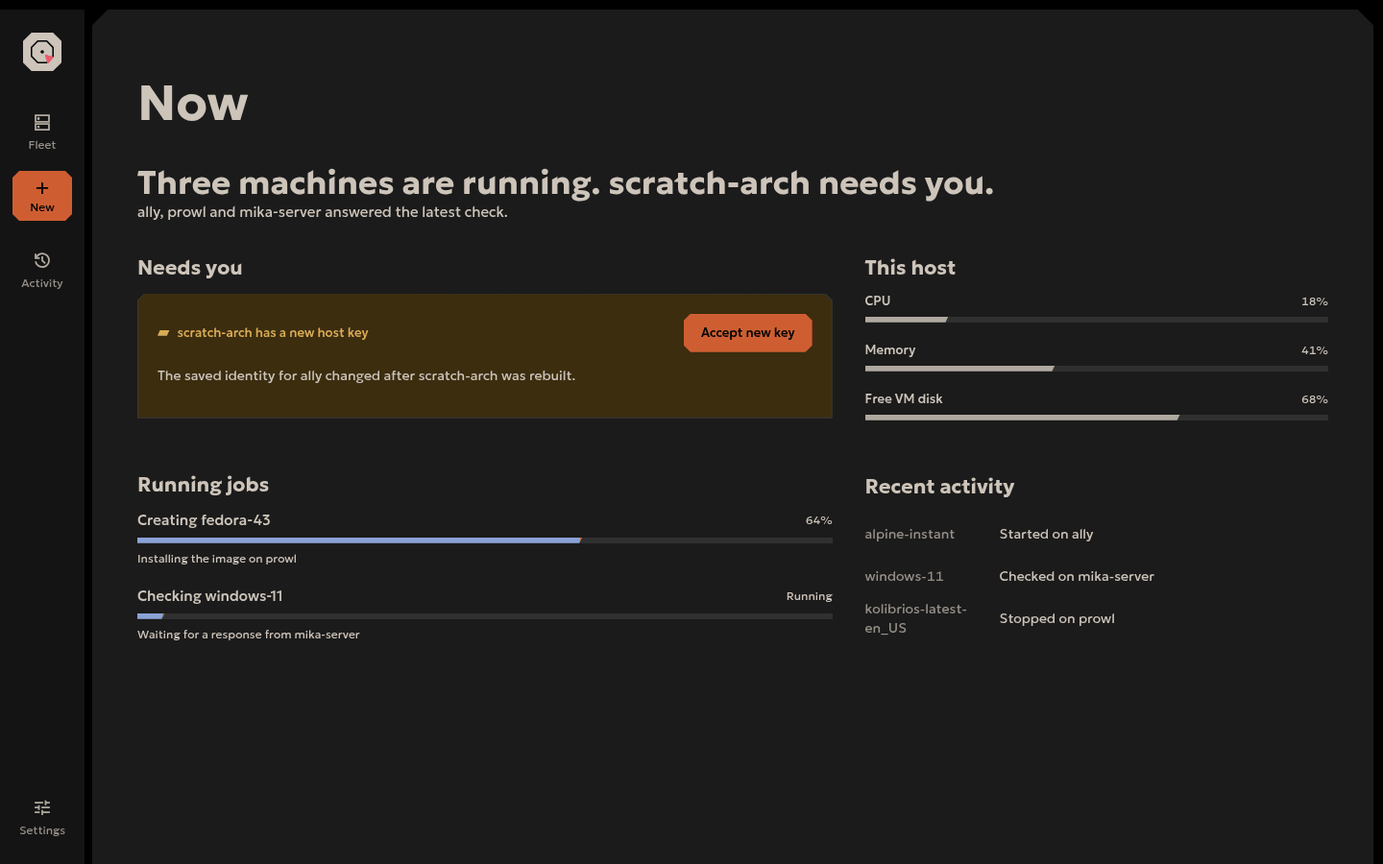
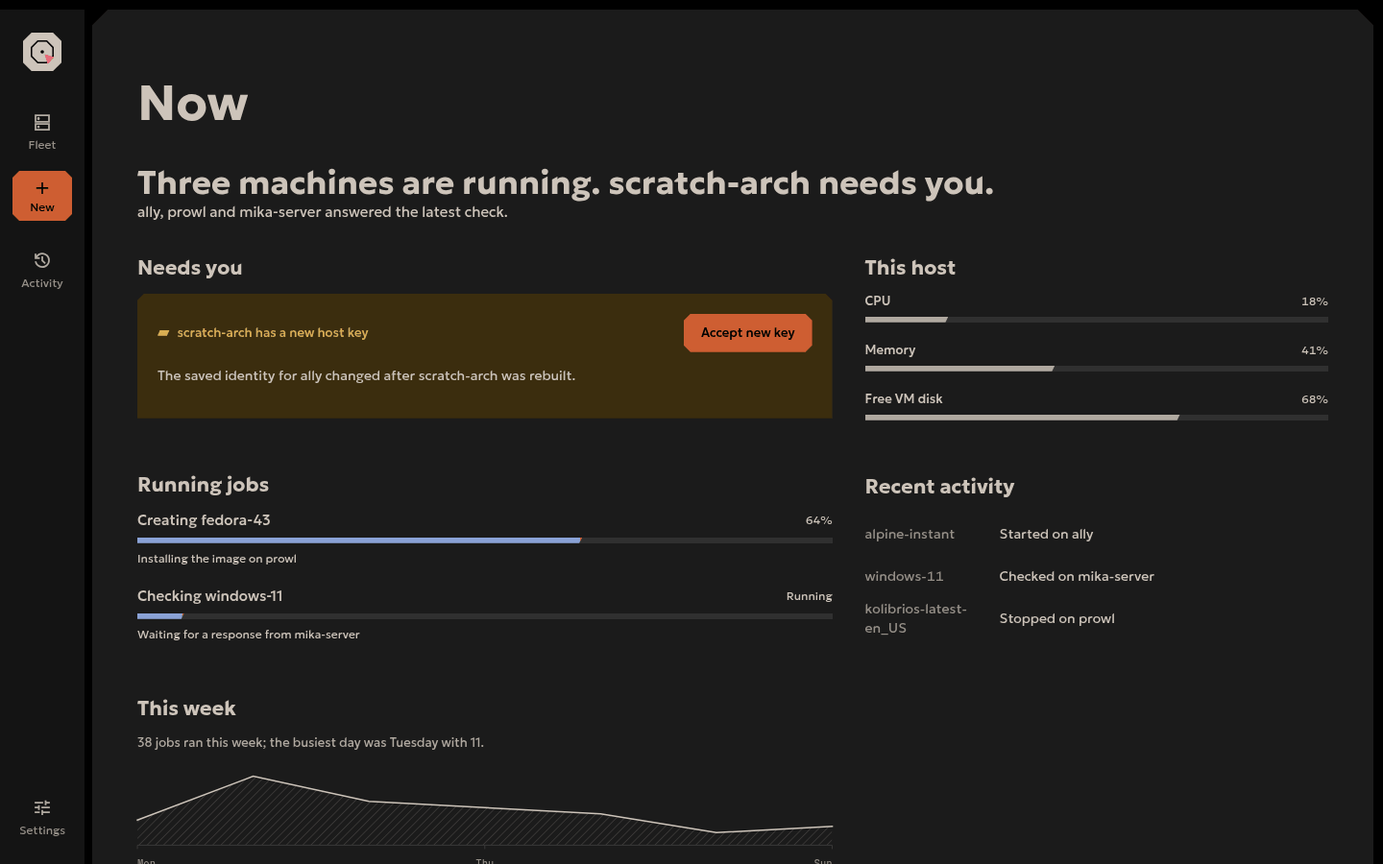
[docs] lithic: chart every overview, align docs with the code
An overview opens with its sentence, then an engraved chart of how it
moved; the Now sheet shows one. Slab, Facts, filter and SectionIndex
prose now match the libraries, and the web slab hairline is light-only.

diff --git a/docs/lithic/examples/sheets/now.html b/docs/lithic/examples/sheets/now.html
@@ -16,6 +16,7 @@
     .attention-line, .job-head, .meter-head { display: flex; justify-content: space-between; align-items: center; gap: var(--lithic-space-s3); }
     .job, .meter { display: grid; gap: var(--lithic-space-s2); }
     .job + .job, .meter + .meter { margin-top: var(--lithic-space-s4); }
+    .chart-proof { margin: 0 0 var(--lithic-space-s3); color: var(--lithic-fg2); }
   </style>
 </head>
 <body>
@@ -33,6 +34,7 @@
             <div class="board-column">
               <section class="l-section"><h2 class="l-section__title">Needs you</h2><div class="l-slab l-cut" data-tone="attention"><div class="attention-line"><span class="l-claim" data-tone="attention"><span class="l-flake" data-tone="attention" aria-hidden="true"></span>scratch-arch has a new host key</span><button class="l-plaque l-gold" type="button">Accept new key</button></div><p class="l-type-body">The saved identity for ally changed after scratch-arch was rebuilt.</p></div></section>
               <section class="l-section"><h2 class="l-section__title">Running jobs</h2><div><div class="job"><div class="job-head"><strong class="l-type-row">Creating fedora-43</strong><span class="l-type-caption l-numeric">64%</span></div><div class="l-blade l-blade-progress" role="progressbar" aria-label="Creating fedora-43" aria-valuemin="0" aria-valuemax="100" aria-valuenow="64" aria-busy="true" style="--l-fraction:.64"></div><span class="l-type-caption">Installing the image on prowl</span></div><div class="job"><div class="job-head"><strong class="l-type-row">Checking windows-11</strong><span class="l-type-caption l-numeric">Running</span></div><div class="l-blade l-blade-progress" role="progressbar" aria-label="Checking windows-11" aria-busy="true" data-indeterminate="true"></div><span class="l-type-caption">Waiting for a response from mika-server</span></div></div></section>
+              <section class="l-section"><h2 class="l-section__title">This week</h2><p class="chart-proof l-type-detail">38 jobs ran this week; the busiest day was Tuesday with 11.</p><figure class="l-engraved-chart" aria-label="Jobs run each day this week"><svg viewBox="0 0 720 112" role="img"><defs><pattern id="lithic-chart-hatch" width="6" height="6" patternUnits="userSpaceOnUse" patternTransform="rotate(45)"><path class="l-engraved-chart-hatch" d="M0 0 V6"></path></pattern><clipPath id="week-field"><path d="M0 58 L120 12.5 L240 38.5 L360 45 L480 51.5 L600 71 L720 64.5 L720 84 L0 84 Z"></path></clipPath></defs><rect class="l-engraved-chart-field" x="0" y="0" width="720" height="84" clip-path="url(#week-field)"></rect><line class="l-engraved-chart-baseline" x1="0" y1="84" x2="720" y2="84"></line><polyline class="l-engraved-chart-line" points="0,58 120,12.5 240,38.5 360,45 480,51.5 600,71 720,64.5"></polyline><line class="l-engraved-chart-tick" x1="0" y1="84" x2="0" y2="88"></line><line class="l-engraved-chart-tick" x1="360" y1="84" x2="360" y2="88"></line><line class="l-engraved-chart-tick" x1="720" y1="84" x2="720" y2="88"></line><text class="l-engraved-chart-label" x="0" y="106">Mon</text><text class="l-engraved-chart-label" x="360" y="106" text-anchor="middle">Thu</text><text class="l-engraved-chart-label" x="720" y="106" text-anchor="end">Sun</text></svg></figure></section>
             </div>
             <div class="board-column">
               <section class="l-section"><h2 class="l-section__title">This host</h2><div><div class="meter"><div class="meter-head"><span class="l-type-label">CPU</span><span class="l-type-caption l-numeric">18%</span></div><div class="l-blade l-blade-meter" role="meter" aria-label="Host CPU use" aria-valuemin="0" aria-valuemax="100" aria-valuenow="18" style="--l-fraction:.18"></div></div><div class="meter"><div class="meter-head"><span class="l-type-label">Memory</span><span class="l-type-caption l-numeric">41%</span></div><div class="l-blade l-blade-meter" role="meter" aria-label="Host memory use" aria-valuemin="0" aria-valuemax="100" aria-valuenow="41" style="--l-fraction:.41"></div></div><div class="meter"><div class="meter-head"><span class="l-type-label">Free VM disk</span><span class="l-type-caption l-numeric">68%</span></div><div class="l-blade l-blade-meter" role="meter" aria-label="Free virtual machine disk" aria-valuemin="0" aria-valuemax="100" aria-valuenow="68" style="--l-fraction:.68"></div></div></div></section>

diff --git a/docs/lithic/library/web/lists.css b/docs/lithic/library/web/lists.css
@@ -488,10 +488,14 @@
 .l-slab,
 .l-aside {
   --l-fill: var(--lithic-slab);
-  --l-stroke: var(--lithic-vein);
-  --l-stroke-width: var(--lithic-size-hairline);
   --l-cut: var(--lithic-cut-mid);
   padding: var(--lithic-size-slab-inset);
+}
+
+/* a lighter slab alone does not separate from a light pane, so light mode adds the hairline */
+:root[data-l-mode="light"] :is(.l-slab, .l-aside) {
+  --l-stroke: var(--lithic-vein);
+  --l-stroke-width: var(--lithic-size-hairline);
 }
 
 .l-slab[data-tone]:not([data-tone="idle"]) {

diff --git a/docs/lithic/library/web/overlays.css b/docs/lithic/library/web/overlays.css
@@ -717,6 +717,7 @@
 }
 
 .l-engraved-chart {
+  margin: 0;
   color: var(--lithic-fg);
 }
 

diff --git a/docs/lithic/library/go/kit/filters.go b/docs/lithic/library/go/kit/filters.go
@@ -22,9 +22,9 @@ type filterChip struct {
 	focus anim.Tween
 }
 
-// Filters is a row of mutually exclusive filter chips. Chips at rest are
-// tonal plates; the selection glides between them as a sel fill with the place
-// blade along its bottom.
+// Filters is a row of mutually exclusive filter chips. A chip at rest has no
+// fill and shows the field under the pointer; the selection glides between
+// them as a sel fill.
 type Filters struct {
 	Labels   []string
 	Counts   []int

diff --git a/docs/lithic/library/go/kit/sectionindex.go b/docs/lithic/library/go/kit/sectionindex.go
@@ -14,8 +14,9 @@ import (
 	"github.com/ryoku-dev/ryoku/docs/lithic/library/go/tokens"
 )
 
-// SectionIndex tracks settings sections as a side list of bladed rows at
-// expanded width and as a picker at the top of the column when narrower.
+// SectionIndex tracks settings sections as a side list whose current row is a
+// sel fill at expanded width, and as a picker at the top of the column when
+// narrower.
 type SectionIndex struct {
 	Preview State
 

diff --git a/docs/lithic/library/web/README.md b/docs/lithic/library/web/README.md
@@ -208,7 +208,7 @@ Field wrappers are part of the component contract. Wrap every `l-text-field` in 
 | Toggle | A button with `l-toggle` and `role="switch"`. | Reads and writes `aria-checked`. Native `disabled` and `aria-disabled` block toggling. | Bubbled `input` and `change` on the toggle. | `hover`, `pressed`, and `focus`. |
 | Slider | `l-slider-field` contains `input.l-slider[type="range"]`, `l-slider-rail`, `l-slider-fill`, and `l-slider-handle`. The rail is a `field` track. An optional `[data-l-slider-value]` output shows the reading. | Reads native `min`, `max`, `value`, `step`, and `disabled`. If `step` is absent, the library supplies the token keyboard step. `data-l-value-text` overrides visible and accessible value text. The library writes `aria-valuetext` and `--l-value`. | Native range `input` and `change` events. | `hover`, `pressed`, and `focus` on `l-slider`. |
 | Stepper | `l-stepper` contains controls marked `data-l-stepper="decrement|increment"` (normally quiet small icon plaques), an `l-stepper-reading l-cut` field box, an `l-stepper-value` in the label type with tabular figures, and optional `l-stepper-unit`. The value element can use `role="spinbutton"` and `tabindex="0"` for arrow-key input. Add `data-l-editable` to take a typed value: the library makes the value an `input` (an `input.l-stepper-value` may be written directly) sized for the widest bound. Return, Enter or leaving the field commits it clamped to the bounds and snapped to the step from `data-min`; Escape drops an unsaved edit and otherwise passes on, so a dialog closes; Up and Down still step while the side arrows, Home and End move the caret. | Reads `data-value`, `data-min`, `data-max`, `data-step`, and `data-l-editable`. Writes `data-value`, `aria-valuenow`, `aria-valuemin`, and `aria-valuemax` on the value, `--l-stepper-chars` on a typed field, plus `disabled` and `aria-disabled` on the buttons. | Bubbled `input` and `change` on `l-stepper`, once per committed change; the typed field's own events stay inside. | The plaque buttons support plaque states; `focus` on `l-stepper-value`, which a typed field also shows while it holds the caret. |
-| Filters | `l-filters` contains an `l-filter-slab l-place-chip` and buttons with `l-filter`. Counts use `l-filter-count`. Chips rest on the tonal recipe; the gliding slab draws the selection. | Reads and writes `aria-pressed` and roving `tabindex`. `data-value` supplies the selected value, otherwise trimmed button text is used. The group receives `data-value`. | Bubbled `input` and `change` on `l-filters`. | `hover` and `focus` on each `l-filter`. |
+| Filters | `l-filters` contains an `l-filter-slab l-place-chip` and buttons with `l-filter`. Counts use `l-filter-count`, in the caption type with tabular figures. A resting chip has no fill; hover shows the `field` fill, and the gliding slab draws the selection. | Reads and writes `aria-pressed` and roving `tabindex`. `data-value` supplies the selected value, otherwise trimmed button text is used. The group receives `data-value`. | Bubbled `input` and `change` on `l-filters`. | `hover` and `focus` on each `l-filter`. |
 | Segmented | `l-segmented l-cut` contains two to five `button.l-segment` options of equal width. The library creates the gliding `l-segmented-thumb l-cut l-place-chip`. | Defaults to `role="radiogroup"` with `role="radio"` options. Reads and writes `aria-checked` and roving `tabindex`; `data-value` supplies the value, otherwise trimmed text is used. The group receives `data-value`, `--l-segment-count`, `--l-segment-index`, and managed `data-l-selection-ready`, which turns on the glide after the first change. Arrow keys move, Home and End jump. `disabled` or `aria-disabled` on an option, or `aria-disabled` on the group, disables it. | Bubbled `input` and `change` on `l-segmented`. | `hover` on each `l-segment`; `focus` on `l-segmented`. |
 | Tabs | `l-tabs[role="tablist"]` contains `l-tabs-blade` and `button.l-tab[role="tab"]` on a `vein` baseline. Each tab names a panel with `aria-controls`. | Reads and writes `aria-selected`, roving `tabindex`, and panel `hidden`. `data-value` supplies the group value, otherwise trimmed tab text is used. The tab list receives `data-value`. | Bubbled `input` and `change` on the tab list. | `hover` and `focus` on each `l-tab`. |
 | Disclosure | `l-disclosure` contains a control marked `data-l-disclosure-trigger` and `l-disclosure-content`. | Reads and writes `aria-expanded` on the trigger and writes `aria-hidden` plus `inert` on the content. The library manages `data-l-open` and `--l-disclosure-height`. | Bubbled `change` on `l-disclosure`. | The trigger supports its own component states. |
@@ -265,7 +265,7 @@ Segmented:
 | Pane | `l-pane l-cut` is a list plane. Add `l-work-pane` for the work plane. | No component attribute is read. | None. | None. |
 | MineralField | `l-mineral-field` can be combined with a container such as Header. | Reads `data-tone="idle|alive|becoming|attention|paused|failed"`. Tone changes animate the field unless reduced motion is active. | None. `setTone(element, tone)` updates the attribute. | None. |
 | Header | `l-header` contains `l-header__identity`, `l-header__mark`, `l-header__name`, optional `l-header__proof`, `l-header__note`, `l-marks`, `l-header__acts`, and `l-header__below`. | No Header-specific attribute is read. A combined MineralField reads `data-tone`. | None. | Child controls support their own states. |
-| Slab | `l-slab l-cut` is a content plane that lifts: the `slab` fill with a `vein` hairline inside the cut. Successive `l-slab-row` children are divided by a `vein` line across the inner width with `s3` above and below. Aside uses the same plane. | No component attribute is read. | None. | None. |
+| Slab | `l-slab l-cut` is a content plane that lifts: the `slab` fill inside the cut, with a `vein` hairline only in light mode, where the lighter slab alone would not separate. `data-tone` dyes it with its state's mineral field for the one hero plane of a view. Successive `l-slab-row` children are set apart by `s4` of space, not a rule. Aside uses the same plane. | Reads `data-tone` through the shared tone rules, and the root's `data-l-mode` for the hairline. | None. | None. |
 | Section | `l-section` contains `l-section__title`. Add `l-major` to increase the gap between consecutive major sections. | No component attribute is read. | None. | None. |
 | Facts | A `dl.l-facts` contains `l-facts__row` wrappers around `dt` and `dd`. Add `l-literal` to values that need the mono type. Labels keep the 140 column, values start `s4` after it, either side wraps, and a row grows past 44 to fit its taller side. | No component attribute is read. | None. | None. |
 | Aside | `aside.l-aside.l-cut` contains `l-aside__title` and optional `l-aside__preview l-cut`. | No component attribute is read. | None. | None. |

diff --git a/docs/lithic/layout.md b/docs/lithic/layout.md
@@ -69,8 +69,8 @@ away.
 Top to bottom, with the list inset 10 from the pane sides:
 
 1. The page title in `section` ("Fleet") over one sentence of state in `body`
-   ("Three running. mika-server needs you.") with the attention name in
-   amber.
+   ("Three running. mika-server needs you.") in one ink; the state shows on
+   the row.
 2. The search field (280 wide at rest, growing to the pane) with its
    shortcut hint ("/"); Ctrl K opens the command palette instead.
 3. The filters with live counts: All, Machines, Servers, Consoles.
@@ -88,8 +88,9 @@ marks, act row) uses 36 side insets, then tabs in a 44 strip inset 34 at the
 sides, then tab content inset 34 on `stone2`. Tabs are at most five per
 resource kind.
 
-With nothing selected, the work pane shows the **Now board** as sections.
-Its content is centred up to 1240 wide:
+With nothing selected, the work pane shows the **Now board** as sections open
+on the pane under their `section` titles; only the thing that needs you may
+stand on a toned slab. Its content is centred up to 1240 wide:
 
 1. The fleet sentence in `sentence`, followed by one proof line.
 2. Pinned resource tiles, each with state and one action. A tile is at least
@@ -100,6 +101,13 @@ Its content is centred up to 1240 wide:
 4. Needs you and Running now use rows with one action. This computer shows
    CPU, memory and free VM-disk space as quiet `fg2` BladeMeters. A meter
    turns amber at 90 percent.
+5. The board shows how the fleet moved over time as a chart section, open on
+   the pane like the rest: a `section` title, one proof line in `detail`
+   `fg2` that says in words what the line shows ("38 jobs ran this week; the
+   busiest day was Tuesday with 11"), then an EngravedChart. It stands beside
+   or above the lists of what needs you, never in place of the sentence. When
+   the data is too short for a line, the chart's own `fg3` sentence stands
+   there instead.
 
 Drafts occupy the work pane under a header. The form column is at most 600
 wide. From 820 available width, an Aside sits 34 to its right, 300 to 400
@@ -128,12 +136,12 @@ Activity and Settings omit the list pane and take the remaining width.
 | compact | full width | the same Picker at the top of the column | same |
 
 Each section is a `section` title, 13 gap, a slab, 21 below. The slab is the
-`slab` role with a 1 dp `vein` hairline, cut 7 with a 21 inset: in dark mode
-it is lighter than the work pane, in light mode its hairline sets it off.
-Setting rows inside a slab are a title in `row` with a detail in `detail`
-`fg2` 2 below, and the control (toggle, picker, segmented, stepper, slider)
-right-aligned and no wider than 320; rows are 13 apart, with a `vein` line
-between them.
+`slab` role, cut 7 with a 21 inset: in dark mode it is lighter than the work
+pane, in light mode a step lighter with a 1 dp `vein` hairline that sets it
+off. Setting rows inside a slab are a title in `row` with a detail in
+`detail` `fg2` 2 below, and the control (toggle, picker, segmented, stepper,
+slider) right-aligned and no wider than 320; rows are 21 apart, separated by
+space, not rules.
 
 The index follows the reading position: a section becomes current when less
 than a third of it is still visible above the next; at the very end the last
@@ -337,8 +345,8 @@ which leaves only its gaps. A block of code keeps its slab.
 cut 7 carries it: the command in `mono`, why in `detail`, its
 claim (how far it reaches) and one line plaque that runs it. The slab stands
 where the text shows the command, in place of the block of code, and never
-again under it. Several commands share one slab under a `title`, a `vein`
-hairline between them.
+again under it. Several commands share one slab under a `title`, set apart by
+space.
 
 **Running it stays in the conversation.** The plaque runs the command in
 place: the command stands where a question would, in `mono` on the question's
@@ -347,8 +355,8 @@ that shows nothing until the command ends reads as a button that did nothing.
 A second, small icon plaque opens a terminal for the reader who wants one,
 and it is the only action when the command needs a keyboard. A running line
 carries the Working flakes and, from three seconds on, the time it has taken
-in `monoSm`; while it runs its unfolded output shows its end, not its start,
-since that is where the news is.
+in `caption` with tabular figures; while it runs its unfolded output shows
+its end, not its start, since that is where the news is.
 
 **Text can be marked.** Every paragraph, question and block of code can be
 selected with the pointer and copied, with `sel` at 60% under the marked
@@ -429,16 +437,18 @@ while the column is scrolled beneath it.
 
 **The work beside it.** When a conversation changes files, the side panel
 shows the changes without leaving the conversation: a file per row with its
-status letter, path and counts in `mono`, each unfolding to its diff. The
-panel never takes gold; committing belongs to the full review.
+status letter and path in `mono` and its counts in `caption`, each unfolding
+to its diff. The panel never takes gold; committing belongs to the full
+review.
 
 A destination with nothing open shows its Now board in the content pane: the
-`sentence`, one `proof` line, then what needs the reader first. A board with
-nothing to report does not stand empty. It says where work can start, on
-slabs under a `title`: the places to work in with the one action
-that picks each, or, when the thing every action needs is missing, the way
-to get it. A list in the sidebar that has no rows yet says in one `caption`
-line what will stand there.
+`sentence`, one `proof` line, then what needs the reader first, with a chart
+section of how the destination's work moved beside or above it, as on the
+[Now board](#the-work-pane). A board with nothing to report does not stand
+empty. It says where work can start, on slabs under a `title`: the places to
+work in with the one action that picks each, or, when the thing every action
+needs is missing, the way to get it. A list in the sidebar that has no rows
+yet says in one `caption` line what will stand there.
 
 Search has one entry point, the top bar field. It finds conversations,
 projects and commands, and Ctrl K focuses it. Its results open under the

diff --git a/docs/lithic/library/go/README.md b/docs/lithic/library/go/README.md
@@ -250,7 +250,7 @@ func layoutHost(gtx layout.Context, th *theme.Theme) layout.Dimensions {
 | `MineralField` | An animated tone-derived plane with no caller fields. Call `Layout(gtx, th, tone, body)`. |
 | `Header` | Owns the mineral field behind a selected resource. Pass `HeaderContent` to `Layout(gtx, th, content)`. |
 | `HeaderContent` | Set `Tone`, `Mark`, `Name`, `Progress`, `Proof []Span`, `Note`, `Marks []Mark`, `Actions []*Plaque`, and `Below`. |
-| `Slab` | `Slab(gtx, ink, cut, body)` is the general painted container. `SlabContent(gtx, th, body)` supplies the standard stone1 plane and inset. |
+| `Slab` | `Slab(gtx, ink, cut, body)` is the general painted container. `SlabContent(gtx, th, body)` supplies the standard slab: the `slab` fill, a `vein` hairline in light mode, the mid cut and the inset. `TonedSlabContent(gtx, th, tone, body)` dyes it with the tone's mineral field for the one hero plane of a view. `SlabRows(gtx, th, rows...)` sets rows apart by space inside a standard slab, and `SlabSurface(gtx, th, bounds, cut, fill)` paints the plane alone. |
 | `Section` | `Section(th, title, body)` returns a titled widget with canonical gaps. |
 | `Fact`, `Facts` | A `Fact` has `Label`, `Value`, and `Mono`. `Facts(th, []Fact)` returns a flat label and value table: labels keep the 140 column, values start `s4` after it, either side wraps, and a row grows past 44 to fit its taller side. |
 | `Aside` | `Aside(gtx, th, title, rows...)` lays out a live draft summary. Build rows with `AsideFact`, `AsideNote`, and `AsidePreview`. |
@@ -322,7 +322,7 @@ argument.
 | `NewPlaque` | The rail's sole gold action. Set embedded `Click` and `Preview`, then call `Layout(gtx, th, compact, open)`. Consume activation through the embedded `Clicked(gtx)`. |
 | `RailDestination` | Set `Label`, `Icon`, and `Notch`. |
 | `Rail` | Main navigation. Set `Preview`, `NewOpen`, `HideNew`, `FootIndex`, and `Brand BrandMarkFunc`. Destinations before `FootIndex` stack from the top with New after the first one; destinations from `FootIndex` on keep reading order as one group anchored to the foot. Zero means the last destination alone, today's layout; a value equal to the count puts none at the foot. `HideNew` drops New from the rail and from the compact bar, whose columns are Home, the destinations and New. Mark a destination with `RailDestination.Notch`. `Brand` draws the host's mark in Home, expanded and compact; nil draws the octagon. In the expanded rail every tile takes the widest label plus `s1` each side, at least the 64 tile and at most the rail less `s1` each side (80); a label wider than that wraps to two centred lines at word boundaries, breaking inside a word only when one word is too long, and its tile grows by one caption line. Medium and compact are unchanged. Call `Layout(gtx, th, destinations, selected, class)`, `HomeClicked()`, `NewClicked()`, and `Selected() (int, bool)`. |
-| `SectionIndex` | Settings-page navigation. Set `Preview`. Call `Layout(gtx, th, labels, current, class)` and `Selected() (int, bool)`. It renders rows in `FrameExpanded`, horizontal chips in `FrameMedium`, and no index in `FrameCompact`. |
+| `SectionIndex` | Settings-page navigation. Set `Preview`. Call `Layout(gtx, th, labels, current, class)` and `Selected() (int, bool)`. It renders rows in `FrameExpanded` and a Picker at the top of the column in `FrameMedium` and `FrameCompact`. |
 | `EngravedChart` | A polyline over a clipped hatch. Set `Values`, `Min`, `Max`, `Height`, `Ticks`, and `Empty`, then call `Layout(gtx, th)`. Use `math.NaN()` for an automatically derived bound. |
 | `AppFrame` | The window composition root. `Class` is the resolved output and `Preview` forces overlay preview. `HideCompactBar` leaves the compact class without the bottom rail so the host navigates on its own. The host owns its `Rail` and passes its layout as `AppFrameContent.Rail`, so a host mark goes on `Rail.Brand`; the frame draws no mark of its own. Call `Layout(gtx, th, AppFrameContent)`. `DismissOverlay` hears Escape only after the frame's content (an open menu, a dialog, a Search with text, a ListEditor field) had the chance to use it. |
 | `AppFrameContent` | Set `Rail`, `List`, `Work`, `Overlays`, `WindowControls`, and `DismissOverlay func() bool`. |

diff --git a/docs/lithic/components.md b/docs/lithic/components.md
@@ -395,12 +395,17 @@ Library: QML Lithic.Header, web .l-header, Go kit.Header, terminal -
 
 ### Slab
 
-A slab is a container inside a pane: a `slab` fill with a 1 dp `vein`
-hairline inside a 7 cut, and a 21 inset. It groups settings, forms and quiet
-board sections. A slab lifts and never sinks: in dark mode it is lighter
-than the plane it stands on, and in light mode it shares the work pane's
-tone and its hairline sets it off. Rows inside are separated by `vein` lines
-that keep the 21 inset. Reference: `ui/kit/draw.go`.
+A slab is a container inside a pane: a `slab` fill inside a 7 cut with a 21
+inset, and a 1 dp `vein` hairline in light mode. It groups settings and
+forms, a group that must read as one object; board sections lie open on the
+pane. A slab lifts and never sinks: in dark mode it is lighter than the plane
+it stands on, and in light mode it sits a step lighter than the work pane and
+its hairline sets it off. Rows inside are separated by space, not rules.
+
+The one hero plane of a view, the thing that needs you, may be a toned slab:
+its state's mineral field in place of the `slab` fill. A view has one, and it
+holds the view's one gold action; other needs stay plain slabs or rows.
+Reference: `ui/kit/draw.go`.
 
 Library: QML Lithic.Slab, web .l-slab, Go kit.Slab, terminal term.RenderSlab
 
@@ -506,11 +511,11 @@ Library: QML Lithic.Facts, web .l-facts, Go kit.Facts, terminal term.RenderFacts
 
 ### Aside
 
-The draft aside is a standard slab: `slab` fill, 1 dp `vein` hairline, cut 7
-and 21 inset. Its `title` names what saving will make or write. A note under
-it uses `detail` in `fg2`. Facts and literal previews update as the form
-changes; preview text uses `monoSm` on an inner `field` block cut 6 with 13
-inset. Reference: `ui/pages/common/draft.go`.
+The draft aside is a standard slab: `slab` fill, cut 7, 21 inset and a 1 dp
+`vein` hairline in light mode. Its `title` names what saving will make or
+write. A note under it uses `detail` in `fg2`. Facts and literal previews
+update as the form changes; preview text uses `monoSm` on an inner `field`
+block cut 6 with 13 inset. Reference: `ui/pages/common/draft.go`.
 
 Library: QML Lithic.Aside, web .l-aside, Go kit.Aside, terminal term.RenderAside
 
@@ -544,8 +549,8 @@ Library: QML Lithic.Marks, web .l-marks, Go kit.Marks, terminal term.RenderMarks
 ### Sentence
 
 Sentence composes spans without turning the whole line into data type. A span
-may switch to mono for literal data or use amber for an attention name.
-Reference: `ui/pages/common/sentence.go`.
+may switch to mono for literal data; the sentence stays in one ink, and a
+state lives on its row. Reference: `ui/pages/common/sentence.go`.
 
 Library: QML Lithic.Sentence, web .l-sentence, Go kit.Sentence, terminal term.RenderSentence
 
@@ -733,6 +738,13 @@ Draw a 1.5 dp `fg` polyline over Hatch, with a 1 dp `vein` baseline, 4 dp
 ticks and `monoSm` labels. Do not use an area fill, extra colour or gradient.
 Short or absent data shows an `fg3` sentence instead. Reference:
 `ui/kit/chart.go`.
+
+Use it on an overview to show how what it oversees moved over time. It sits
+in a section open on the pane: the `section` title, one proof line in
+`detail` `fg2` that says in words what the line shows ("38 jobs ran this
+week; the busiest day was Tuesday with 11"), then the chart, beside or above
+the lists of what needs the reader. A chart never replaces the overview's
+sentence.
 
 Library: QML Lithic.EngravedChart, web .l-engraved-chart, Go kit.EngravedChart, terminal -
 

diff --git a/docs/lithic/design.md b/docs/lithic/design.md
@@ -70,7 +70,8 @@ Read this page first. The companion pages go deeper on one subject each:
    degrees: a job's progress, a meter, and the current tab's underline.
 
 7. **Engraved data.** Charts are a fine foreground line over a 45 degree
-   hatch, labels in Martian Mono, no coloured area fills.
+   hatch, labels in Martian Mono, no coloured area fills. An overview screen
+   shows how what it oversees moved over time with one.
 
 8. **One family, set monumentally.** The selected thing's name is the one big
    line in a view (Geologica Bold at 52 sp). Everything else is at working
@@ -135,10 +136,10 @@ and the dark orange sun as the one action; its tables live in `tokens.json`.
 | `scrim` | behind dialogs | `scrim` |
 
 In light mode the ladder runs from the other end, so the ground is the
-darkest stone and the work pane among the lightest; there a slab sits at the
-work pane's tone and its hairline sets it off. Jade, lapis and amber do not
-follow the palette because they carry meaning; a Ryoku user must read "alive"
-the same way on every wallpaper.
+darkest stone and the work pane among the lightest; there a slab sits a step
+lighter than the work pane and its hairline sets it off. Jade, lapis and
+amber do not follow the palette because they carry meaning; a Ryoku user
+must read "alive" the same way on every wallpaper.
 
 The reader sets the look on top: **Contrast** (standard or high) spreads the
 stones, slab, field and vein further from the ground and moves the inks out,
@@ -334,7 +335,11 @@ With no resource selected, the work pane is the Now board. It places the
 fleet sentence and proof above pinned tiles, then from 860 dp splits Needs
 you and Running now from This computer and Recent activity. Pinned tiles and
 rows expose one action. Host CPU, memory and VM disk use quiet `fg2` meters
-that turn amber at 90 percent.
+that turn amber at 90 percent. An overview also shows how what it oversees
+moved over time: an engraved chart in a section open on the pane, with a
+proof line in words saying what the line shows, beside or above the lists of
+what needs you. A chart never replaces the sentence, and short data shows the
+chart's sentence instead.
 
 Full pages such as Settings use a 760 dp content column. At expanded width a
 200 dp SectionIndex sits 34 dp to its left inside a centred 994 dp region;
@@ -411,7 +416,7 @@ the implementation recipe.
 Sentence case, plain verbs, the same word through a whole flow: a plaque that
 says Start produces "Starting" and then "Running". A state always comes with
 its proof ("Online, 23 ms"; "Needs you, sign-in failed 2 min ago"). Errors
-say what happened and what to do. Empty states offer the next step. Space
+say what happened and what to do. Empty states offer the next step. Martian
 Mono wraps only the literal parts. [copy.md](copy.md) has the word lists.
 
 ## 11. Do and don't

diff --git a/docs/lithic/map.md b/docs/lithic/map.md
@@ -137,6 +137,7 @@ Icons are Material Symbols Sharp in every stack. QML and the web set the font's 
 | Explain a form's consequence | [Aside](components.md#aside) beside the draft. |
 | Show a collection of resources | [RowList](components.md#rowlist) made from [Tablet](components.md#tablet) rows. |
 | Show a few label and value facts | [Facts](components.md#facts). |
+| Show how something moved over time | An [EngravedChart](components.md#engravedchart) in a section open on the pane, under a proof line in words. |
 | Explain that a collection is empty | [Empty](components.md#empty) with the next action. |
 
 ## Patterns
@@ -146,7 +147,7 @@ The archetypes define composition. [Layout](layout.md) owns their geometry and s
 | Archetype | Build it from | Geometry | Picture |
 |---|---|---|---|
 | List and detail window | `AppFrame`, `Rail`, a list `Pane` with `Search`, `Filters` and `RowList`, then a work `Pane` with `MineralField`, `Header` and `Tabs`. | [List pane and work pane](layout.md#the-list-pane) | [Fleet](media/sheet-fleet.png) |
-| The Now board | `AppFrame`, `Sentence`, attention `Section`, `Claim`, one gold `Plaque` and `BladeProgress`. | [The work pane](layout.md#the-work-pane) | [Now](media/sheet-now.png) |
+| The Now board | `AppFrame`, `Sentence`, attention `Section`, `Claim`, one gold `Plaque`, `BladeProgress` and an `EngravedChart` section. | [The work pane](layout.md#the-work-pane) | [Now](media/sheet-now.png) |
 | A draft with its aside | `DraftColumns` with a `Section` and `Slab` of fields beside an `Aside`; optional settings go in `Disclosure`. | [The work pane](layout.md#the-work-pane) | [Draft](media/sheet-draft.png) |
 | A settings page with a section index | `AppFrame`, `SectionIndex` (a Picker below expanded), repeated `Section` and `Slab` groups, then the appropriate controls. | [Full pages](layout.md#full-pages) | [Settings](media/sheet-settings.png) |
 | A dialog flow | `Dialog`, plain copy, fields when required, line Cancel and one gold or danger action; use `Confirm` for irreversible work. | [Overlays and the Escape stack](layout.md#overlays-and-the-escape-stack) | [Memento](media/sheet-memento.png) |

diff --git a/docs/lithic/library/qml/README.md b/docs/lithic/library/qml/README.md
@@ -420,7 +420,7 @@ A spin box with quiet decrement and increment faces either side of a field box h
 
 #### Filters
 
-A bounded row of filter chips with counts. Chips rest on tonal `field` plates; the `sel` fill glides to the selected chip.
+A bounded row of filter chips with counts in `caption` with tabular figures. A resting chip has no fill; hover shows the `field` fill, and the `sel` fill glides to the selected chip.
 
 - Properties: `model`, `currentIndex`, `previewState`, and `accessibleName`
 - Signal: `activated(int index)`
@@ -667,9 +667,9 @@ A detail header with a mark, name, proof, note, traits, actions, and an optional
 
 #### Slab
 
-A lifted cut container: `slab` fill and a 1 dp `vein` hairline inside the cut, with configurable inset, fill, and cut depth.
+A lifted cut container: the `slab` fill, with a 1 dp `vein` hairline inside the cut in light mode, and a configurable inset, fill, and cut depth. A `tone` other than idle dyes it with that state's mineral field for the one hero plane of a view.
 
-- Properties: `inset`, `fill`, `cut`, and the default `content` child list. Read-only properties are `bodyItem`, `contentImplicitWidth`, and `contentImplicitHeight`.
+- Properties: `inset`, `tone`, `fill`, `cut`, and the default `content` child list. Read-only properties are `bodyItem`, `contentImplicitWidth`, and `contentImplicitHeight`.
 - Preview: none
 
 #### Section
@@ -681,7 +681,7 @@ A section title followed by an arbitrary measured body.
 
 #### Facts
 
-A label and value list with optional monospace literal values. Labels keep the 140 column and values start `s4` after it; either side wraps, and a row grows past 44 to fit its taller side.
+A label and value list, rows set apart by their height with no rules, with optional monospace literal values. Labels keep the 140 column and values start `s4` after it; either side wraps, and a row grows past 44 to fit its taller side.
 
 - Property: `facts`
 - Fact entries: objects with `label`, `value`, and optional `literal`
